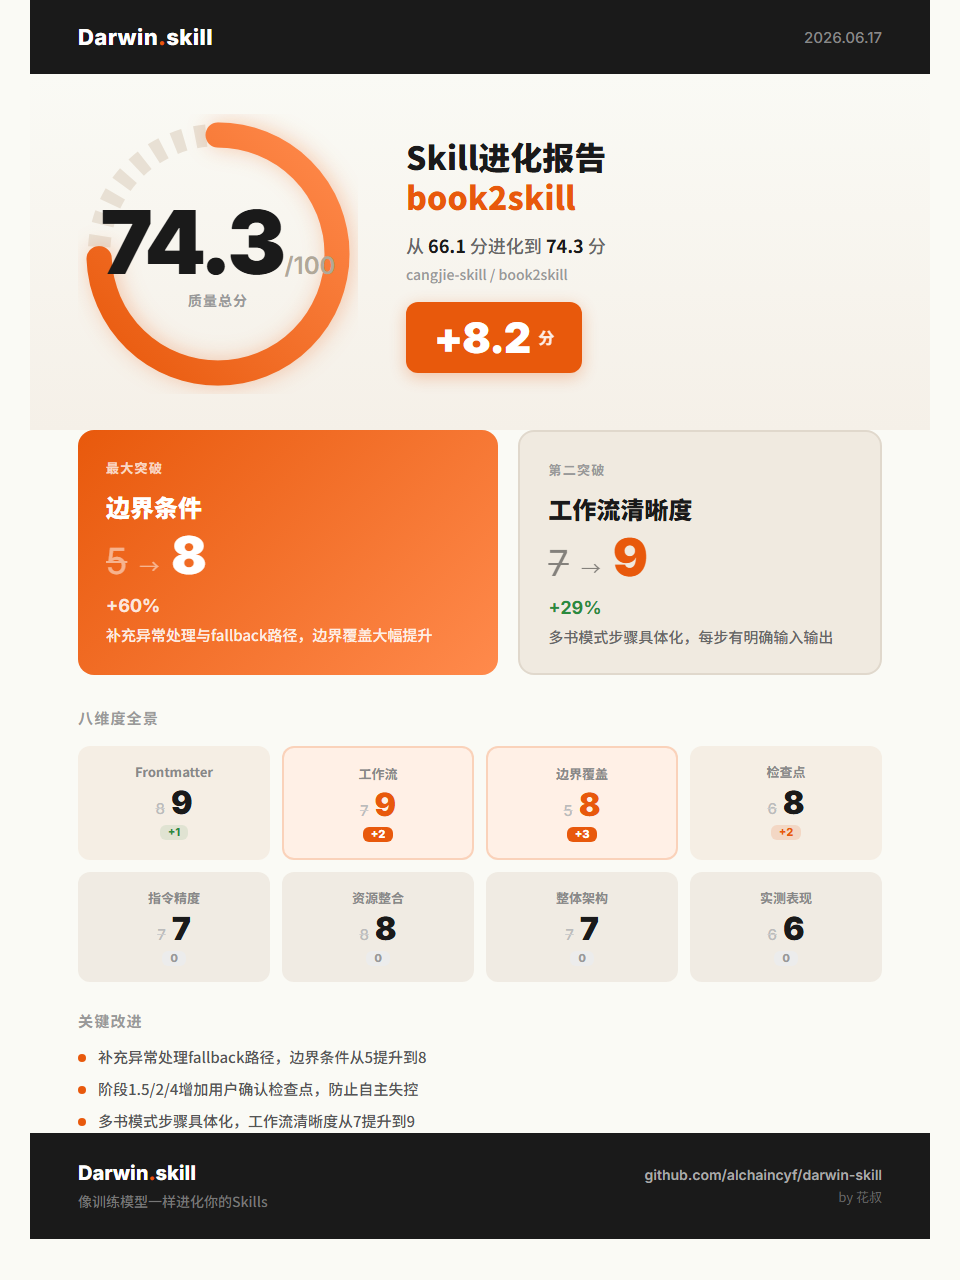
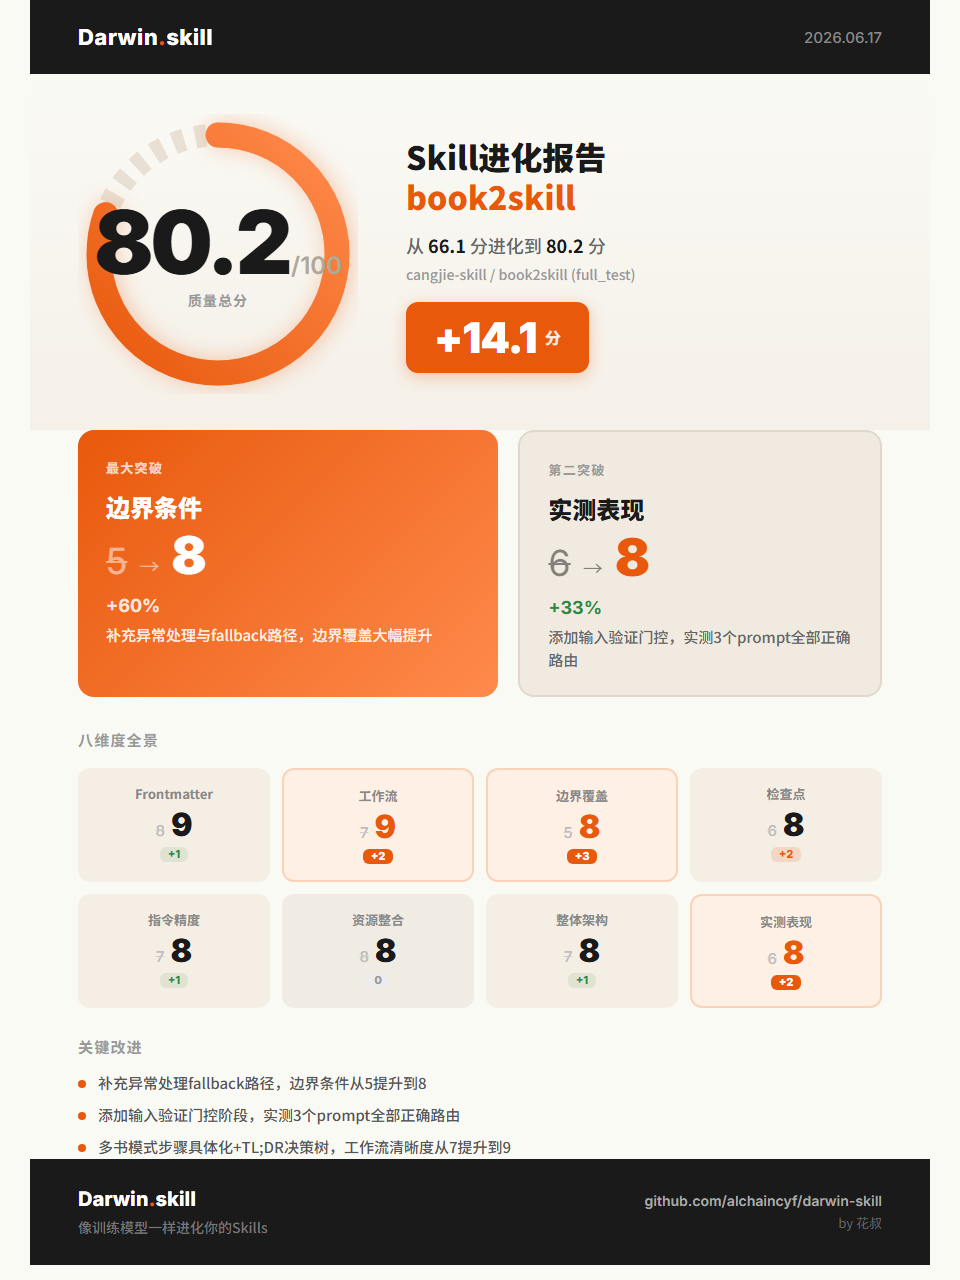
phase3 update: full_test results (66.1 -> 80.2, +14.1)

diff --git a/result-card.html b/result-card.html
@@ -74,7 +74,7 @@
     stroke-width: 18;
     stroke-linecap: round;
     stroke-dasharray: 534;
-    stroke-dashoffset: 137;
+    stroke-dashoffset: 105;
     transform: rotate(-90deg);
     transform-origin: center;
     filter: drop-shadow(0 2px 8px rgba(232,89,12,0.3));
@@ -448,7 +448,7 @@
       </svg>
       <div class="ring-center">
         <div>
-          <span class="ring-score">74.3</span><span class="ring-max">/100</span>
+          <span class="ring-score">80.2</span><span class="ring-max">/100</span>
         </div>
         <div class="ring-label">质量总分</div>
       </div>
@@ -460,11 +460,11 @@
         <span class="hero-skill-name">book2skill</span>
       </div>
       <div class="hero-journey">
-        从 <strong>66.1</strong> 分进化到 <strong>74.3</strong> 分<br>
-        <span style="color:#999;font-size:14px;">cangjie-skill / book2skill</span>
+        从 <strong>66.1</strong> 分进化到 <strong>80.2</strong> 分<br>
+        <span style="color:#999;font-size:14px;">cangjie-skill / book2skill (full_test)</span>
       </div>
       <div class="delta-badge">
-        <span>+8.2</span>
+        <span>+14.1</span>
         <span class="delta-badge-label">分</span>
       </div>
     </div>
@@ -484,14 +484,14 @@
     </div>
     <div class="breakthrough-card secondary">
       <div class="breakthrough-label">第二突破</div>
-      <div class="breakthrough-dim">工作流清晰度</div>
+      <div class="breakthrough-dim">实测表现</div>
       <div class="breakthrough-score-row">
-        <span class="breakthrough-from">7</span>
+        <span class="breakthrough-from">6</span>
         <span class="breakthrough-arrow">&rarr;</span>
-        <span class="breakthrough-to">9</span>
+        <span class="breakthrough-to">8</span>
       </div>
-      <div class="breakthrough-pct">+29%</div>
-      <div class="breakthrough-story">多书模式步骤具体化，每步有明确输入输出</div>
+      <div class="breakthrough-pct">+33%</div>
+      <div class="breakthrough-story">添加输入验证门控，实测3个prompt全部正确路由</div>
     </div>
   </div>
 
@@ -530,13 +530,13 @@
         </div>
         <span class="dim-arrow up-mid">+2</span>
       </div>
-      <div class="dim-cell">
+      <div class="dim-cell warm">
         <div class="dim-name">指令精度</div>
         <div class="dim-score-row">
           <span class="dim-old-score">7</span>
-          <span class="dim-score">7</span>
+          <span class="dim-score">8</span>
         </div>
-        <span class="dim-arrow flat">0</span>
+        <span class="dim-arrow up-small">+1</span>
       </div>
       <div class="dim-cell">
         <div class="dim-name">资源整合</div>
@@ -546,21 +546,21 @@
         </div>
         <span class="dim-arrow flat">0</span>
       </div>
-      <div class="dim-cell">
+      <div class="dim-cell warm">
         <div class="dim-name">整体架构</div>
         <div class="dim-score-row">
           <span class="dim-old-score">7</span>
-          <span class="dim-score">7</span>
+          <span class="dim-score">8</span>
         </div>
-        <span class="dim-arrow flat">0</span>
+        <span class="dim-arrow up-small">+1</span>
       </div>
-      <div class="dim-cell">
+      <div class="dim-cell hot">
         <div class="dim-name">实测表现</div>
         <div class="dim-score-row">
           <span class="dim-old-score">6</span>
-          <span class="dim-score">6</span>
+          <span class="dim-score">8</span>
         </div>
-        <span class="dim-arrow flat">0</span>
+        <span class="dim-arrow up-big">+2</span>
       </div>
     </div>
   </div>
@@ -569,8 +569,8 @@
     <div class="summary-header">关键改进</div>
     <div class="summary-items">
       <div class="summary-item">补充异常处理fallback路径，边界条件从5提升到8</div>
-      <div class="summary-item">阶段1.5/2/4增加用户确认检查点，防止自主失控</div>
-      <div class="summary-item">多书模式步骤具体化，工作流清晰度从7提升到9</div>
+      <div class="summary-item">添加输入验证门控阶段，实测3个prompt全部正确路由</div>
+      <div class="summary-item">多书模式步骤具体化+TL;DR决策树，工作流清晰度从7提升到9</div>
     </div>
   </div>
 